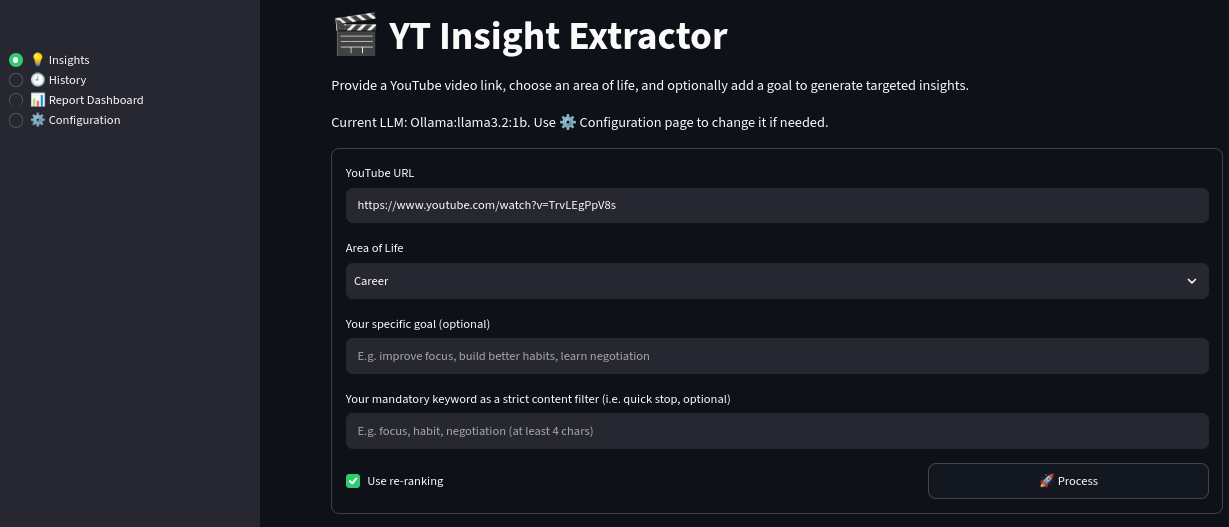
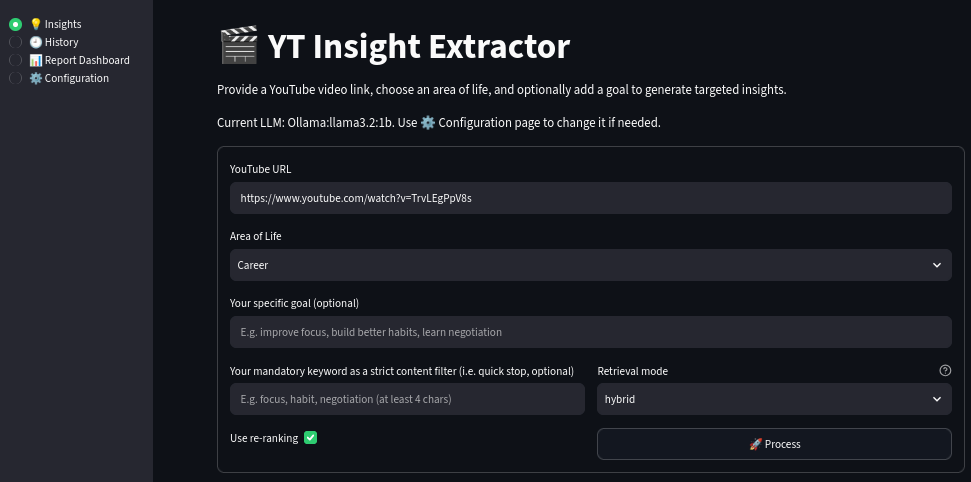
README+Screenshots

Changed region(s): [[0.1545, 0.0, 1.0, 1.0], [0.0, 0.0311, 0.1236, 0.249]]

diff --git a/README.md b/README.md
@@ -25,7 +25,9 @@ YT Insight Extractor turns those long interviews into a small, structured set of
 - **History** — every run is saved locally as JSON with 👍/👎 feedback per tab; view, export, or delete past results.
 - **Report Dashboard** — usage KPIs: total runs, goals set, avg/min/max processing time, distributions by Area of Life, LLM, and feedback.
 - **Configuration** — switch LLM provider/model at runtime (Ollama, OpenAI, Anthropic, OpenRouter — BYOK).
-- Optional **cross-encoder re-ranking** of retrieved chunks and a strict **mandatory-keyword** content filter (toggle in `core/settings.py`).
+- **Retrieval modes** — `vector` (embeddings only, default), `keyword` (lexical overlap), or `hybrid` (reciprocal-rank fusion of both via `core/hybrid.py`, stdlib-only). Selectable in the UI; default in `core/settings.py:RETRIEVAL_MODE`.
+- Optional **cross-encoder re-ranking** of retrieved chunks (UI checkbox) and a strict **mandatory-keyword** content filter.
+- **Evaluated RAG + prompts** — offline retrieval eval (`scripts/eval_retrieval.py` → `docs/retrieval_eval.md`, 6 configs) and LLM prompt eval v1 vs v2 challenger (`scripts/eval_llm.py` → `docs/llm_eval.md`).
 - Export results as **Markdown** or **JSON**.
 
 ---
@@ -48,11 +50,14 @@ YouTube URL
 [4] In-memory vector store ─ core/rag_engine.py
    │                         (ChromaDB wrapped by llama_index.vector_stores.chroma)
    ▼
-[5] Retrieval ────────────── top-k vector similarity over query = Area of Life + Goal,
-   │                         optional ms-marco cross-encoder re-rank and mandatory-keyword filter
+[5] Retrieval ────────────── core/rag_engine.py::retrieve(mode=...) + core/hybrid.py
+   │                         mode = vector | keyword | hybrid (RRF, k=60, stdlib-only);
+   │                         query = Area of Life + Goal; optional ms-marco
+   │                         cross-encoder re-rank and mandatory-keyword filter
    ▼
 [6] Structured generation ── core/generator.py
-   │                         (Pydantic schemas from core/prompts.py; LLM providers via core/llm_config.py)
+   │                         (Pydantic schemas + v1/v2 prompt variants from core/prompts.py;
+   │                          LLM providers via core/llm_config.py)
    ▼
 Results UI: subtopics & ideas tabs with clickable timestamps · history store (core/history.py) · exports (core/exports.py)
 ```
@@ -108,12 +113,21 @@ llm-yt-insight-extractor/
 │   ├── chunker.py            # Timestamp chunking logic with overlaps
 │   ├── embedder.py           # Embedding for ChromaDB vector search
 │   ├── hf_download.py        # Embedding model downloader
-│   ├── rag_engine.py         # LlamaIndex index creation, retrieval, synthesizer
+│   ├── rag_engine.py         # LlamaIndex index creation, retrieval (mode=vector|keyword|hybrid), synthesizer
+│   ├── hybrid.py             # Stdlib-only keyword scoring + RRF fusion (k=60)
 │   ├── generator.py          # LLM generation pipeline for structured output
 │   ├── llm_config.py         # LLM configuration supporting multiple providers
-│   ├── prompts.py            # Prompt templates (Subtopics, Summaries, Actionable Ideas)
+│   ├── prompts.py            # Prompt templates v1 (production) + v2 (challenger) + version registry
 │   ├── history.py            # Persistence of generated content history
 │   └── exports.py            # Markdown and JSON generators
+│
+├── scripts/
+│   ├── eval_retrieval.py     # Offline retrieval eval (6 configs → docs/retrieval_eval.md)
+│   └── eval_llm.py           # Offline (+ optional live) LLM prompt eval v1 vs v2 → docs/llm_eval.md
+│
+├── docs/
+│   ├── retrieval_eval.md     # Retrieval eval report (A–F configs, 8 queries × 6)
+│   └── llm_eval.md           # LLM prompt eval report (v1 vs v2, deterministic metrics + optional judge)
 │
 ├── tests/                    # Unittest tests for modules
 │   └── test-*.py
@@ -182,7 +196,7 @@ All settings come from environment variables (see `.env.example`). Application-l
 | `ANTHROPIC_API_KEY` / `ANTHROPIC_MODEL` | BYOK Anthropic access | `claude-3-5-sonnet-latest` |
 | `OPENROUTER_API_KEY` / `OPENROUTER_MODEL` | BYOK OpenRouter access | `google/gemma-2-9b-it:free` |
 
-Application-level toggles (in `core/settings.py`, not env):
+Application-level toggles (in `core/settings.py`, prompt version in `core/prompts.py`; not env):
 
 | Setting | Purpose | Default |
 |---|---|---|
@@ -190,15 +204,19 @@ Application-level toggles (in `core/settings.py`, not env):
 | `DURATION_TRESHOLD` | Max accepted video length (seconds) | `3600` (60 min) |
 | `TOP_K_FIRST_STAGE` | First-stage vector candidates | `10` |
 | `TOP_K` | Chunks kept after re-ranking | `4` |
+| `RETRIEVAL_MODE` | Retrieval mode: `vector` \| `keyword` \| `hybrid` (UI selectbox overrides it) | `vector` |
 | `DEFAULT_CHUNK_WORDS` | Chunk size in words | `300` |
 | `DEFAULT_OVERLAP_WORDS` | Overlap between consecutive chunks | `50` |
 | `USE_TRANSCRIPT_CACHE` | Cache fetched transcripts in `data/.transcript_cache/` | `True` |
+| `DEFAULT_PROMPT_VERSION` (`core/prompts.py`) | Prompt variant used by `core/generator.py` (`v1` production, `v2` challenger for eval) | `v1` |
 
 > `.env` is loaded automatically by `run_local.sh` and by `docker compose`; for manual runs, `export` the variables yourself.
 > 
 Web app UI configuration:
 
-![Configuration](screenshots/configuration-1.png)
+![Configuration](screenshots/configuration-2.png)
+
+In app UI you can choose LLM provider (Ollama, OpenRouter, OpenAI, Anthropic). Free models on OpenRouter may be temporary rate-limited, especially evenings/weekends.
 
 ---
 
@@ -209,8 +227,9 @@ A few notes on the trade-offs I picked, in case you're evaluating this as a port
 - **LlamaIndex, simple chain (no agents).** The pipeline is a deterministic, six-step RAG flow with structured outputs. Agents would add latency and non-determinism without changing the deliverable. The MVP deliberately stays a chain; an agent layer is a post-MVP item.
 - **In-memory ChromaDB.** Each run is short-lived, the video is small (≤ 60 min), and persistence is handled by the History store. Avoiding an on-disk vector DB removes a moving part and makes the app trivially restartable.
 - **ONNX `all-MiniLM-L6-v2` over `sentence-transformers`.** The latter pulls in PyTorch, which is ~800 MB. ONNX + `tokenizers` keeps the runtime small enough to run on a CPU-only laptop and inside a container.
-- **Cross-encoder re-ranking is opt-in.** It measurably improves relevance on noisy transcripts but adds ~1-2 s per query and another model download. The toggle lives in `core/settings.py` (`USE_RERANKING`-style flag) and is off by default.
-- **Mandatory-keyword filter.** A safety net for the rare case where vector retrieval returns a chunk that doesn't actually contain the user's chosen Area of Life term. Stops obviously off-topic context from reaching the LLM.
+- **Hybrid retrieval over vector-only default.** `core/hybrid.py` (stdlib-only, no new deps) scores lexical token overlap and fuses it with the vector order via reciprocal-rank fusion (RRF, `k=60`). `RAGEngine.retrieve(mode=...)` supports `vector` (default, historical behavior), `keyword` (diagnostic re-sort of the same first-stage candidates), and `hybrid` (RRF of both). Evaluated offline in `docs/retrieval_eval.md` across 6 configs (A–F); filtered configs tie at 0.250 keyword hit rate vs 0.031 unfiltered, so `vector` stays the default and `hybrid` is one UI click away.
+- **Cross-encoder re-ranking is opt-in.** It measurably improves relevance on noisy transcripts but adds ~1-2 s per query and another model download. Toggled via the UI checkbox (off by default), then applied inside `RAGEngine.rerank()`.
+- **Mandatory-keyword filter.** A safety net for the rare case where vector retrieval returns a chunk that doesn't actually contain the user's chosen Area of Life term. Stops obviously off-topic context from reaching the LLM. The eval shows it is the single biggest relevance lever (0.031 → 0.250 hit rate).
 - **Local-first default (`llama3.2:1b`).** It's the smallest model I've found that consistently honors the JSON-Schema output the pipeline requires. IBM Granite models are great for free-form summarization but their structured-output adherence is unreliable as of writing.
 
 ---
@@ -220,8 +239,8 @@ A few notes on the trade-offs I picked, in case you're evaluating this as a port
 1. **Extract transcript** via `youtube-transcript-api`; cache by video ID in `data/.transcript_cache/`.
 2. **Chunk** into `[mm:ss]`-prefixed blocks (`DEFAULT_CHUNK_WORDS`, `DEFAULT_OVERLAP_WORDS`).
 3. **Embed** chunks with ONNX `all-MiniLM-L6-v2`; build an in-memory ChromaDB index.
-4. **Retrieve** `TOP_K_FIRST_STAGE` chunks by vector similarity against `Area of Life + Goal`; re-rank to `TOP_K`; optionally apply the mandatory-keyword filter.
-5. **Generate** structured output (Pydantic schemas from `core/prompts.py`); stream results into the two UI tabs.
+4. **Retrieve** `TOP_K_FIRST_STAGE` first-stage candidates, then order by `RETRIEVAL_MODE` (`vector` similarity, `keyword` overlap, or `hybrid` RRF of both); optionally cross-encoder re-rank to `TOP_K` and apply the mandatory-keyword filter.
+5. **Generate** structured output (Pydantic schemas + `v1` production prompt from `core/prompts.py`; `v2` challenger exists for eval only); stream results into the two UI tabs.
 6. **Persist** the run (transcript length, timing breakdown, model used, feedback buttons) to `data/history.json`.
 
 ---
@@ -245,11 +264,42 @@ After a successful run, the History page shows a row like:
 
 ![History Ideas](screenshots/history-2.png)
 
+![User Feedback](screenshots/feedback-1.png)
+
+## 📊 Report Dashboard
+
 The Report Dashboard aggregates these across runs.
 
 ![Report dashboard 1](screenshots/dashboard-1.png)
 
 ![Report dashboard 2](screenshots/dashboard-2.png)
+
+---
+
+## Evaluation
+
+Retrieval and prompts are evaluated offline on cached transcripts — no YouTube calls, no running LLM required. Reports are checked in under `docs/`.
+
+**Retrieval (`scripts/eval_retrieval.py` → `docs/retrieval_eval.md`)** — 8 queries × 6 configs (48 rows) on `TrvLEgPpV8s` (7 chunks), same chunking and `top_k=4` throughout:
+
+| Config | Keyword hit rate | Timestamp valid | Diversity |
+|---|---:|---:|---:|
+| A: vector-only | 0.031 | 0.250 | 0.875 |
+| B: vector + rerank | 0.031 | 0.250 | 0.875 |
+| C: vector + rerank + kw filter (production default) | **0.250** | 0.188 | 0.887 |
+| D: keyword + kw filter | 0.250 | 0.188 | 0.887 |
+| E: hybrid + kw filter | 0.250 | 0.188 | 0.887 |
+| F: hybrid + rerank + kw filter | 0.250 | 0.188 | 0.887 |
+
+Takeaway: the keyword filter is the dominant lever (0.031 → 0.250); hybrid ties C on the TF stand-in and stays available via the UI mode selector. Re-run with `python scripts/eval_retrieval.py --cache-id <VIDEO_ID>` (add `--use-production` for live embeddings when deps + models are present).
+
+**LLM prompts (`scripts/eval_llm.py` → `docs/llm_eval.md`)** — v1 (production) vs v2 (challenger: focus-area emphasis for subtopics, mandatory first-step for ideas). Offline mode re-scores recent `data/history.json` entries on `json_valid_rate`, `count_in_range_rate`, `timestamp_valid_rate`, `avg_keyword_coverage`, `first_step_rate`; live mode (`--with-llm`) regenerates with both prompts, plus optional LLM-as-a-judge (`--judge` via `EVALUATION_LLM` in `core/settings.py`). v1 stays the default (`DEFAULT_PROMPT_VERSION = "v1"`); the v1 contract is pinned by `tests/test_prompts_versions.py`.
+
+```bash
+python scripts/eval_retrieval.py --cache-id TrvLEgPpV8s
+python scripts/eval_llm.py --samples 5
+python scripts/eval_llm.py --with-llm --judge   # needs deps + running LLM
+```
 
 ---
 
@@ -261,7 +311,7 @@ Run the full suite:
 python -m unittest discover -s tests/
 ```
 
-Or a single module:
+Or a single module, for example:
 
 ```bash
 python -m unittest tests/test_llm_config.py
@@ -286,8 +336,9 @@ python -m unittest tests/test_llm_config.py
 - Cross-encoder re-ranking helps most on long, topically diverse transcripts; for short clips the marginal gain rarely justifies the latency.
 
 **Next steps**
-- Add an **LLM-as-a-Judge** evaluation flow to score summary faithfulness and answer relevance against the History store.
-- Add a **challenger prompt** alongside the production prompt and an A/B comparison view.
+- ~~Add an **LLM-as-a-Judge** evaluation flow~~ — done offline (`scripts/eval_llm.py`, `--judge` flag wired to `EVALUATION_LLM`); remaining: run a live `--with-llm --judge` pass and promote the winner - requires more time, and credits.
+- ~~Expreriment with other **challenger prompt** alongside the production prompt~~: live comparison + admin A/B view.
+- ~~Evaluate retrieval (vector vs rerank vs hybrid)~~: live-embedding check that hybrid beats `vector` on a larger sample.
 - Test more lightweight Ollama models (e.g., newer Granite, Gemma-4) against `llama3.2:1b` on structured outputs.
 
 ---
